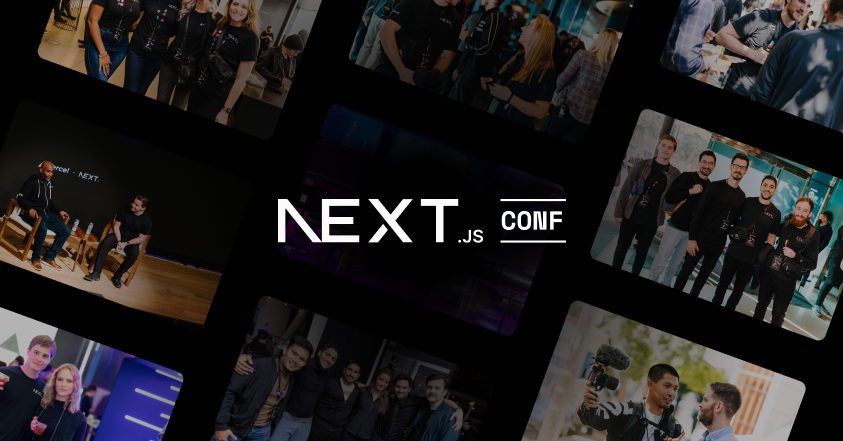
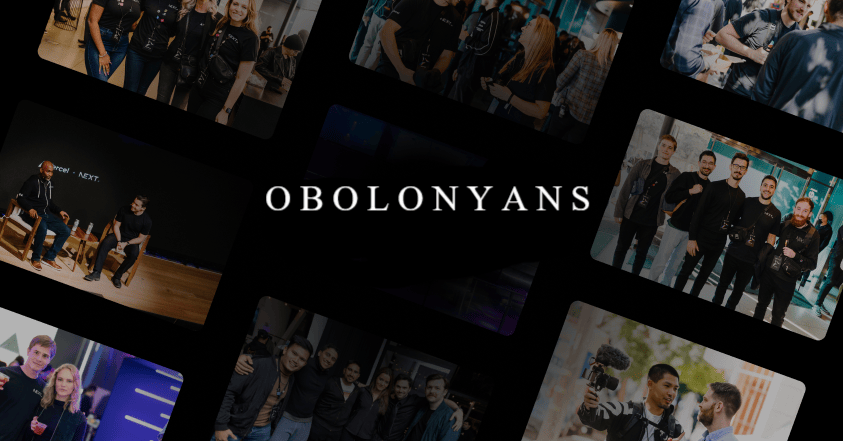
add meta

Changed region(s): [[0.3084, 0.4127, 0.7094, 0.5896], [0.0308, 0.8254, 0.0617, 0.8549]]

diff --git a/pages/index.tsx b/pages/index.tsx
@@ -58,7 +58,7 @@ const Home: NextPage = ({ images }: { images: ImageProps[] }) => {
               </span>
               <span className="absolute left-0 right-0 bottom-0 h-[400px] bg-gradient-to-b from-black/0 via-black to-black"></span>
             </div>
-            <Logo />
+            {/* <Logo /> */}
             <span className="font-bold tracking-[.3em] text-4xl overline">OBOLONYANS</span>
             <h1 className="mt-8 mb-4 text-base font-bold uppercase tracking-widest">
               Our Event Photos

diff --git a/pages/_document.tsx b/pages/_document.tsx
@@ -20,7 +20,7 @@ class MyDocument extends Document {
           <meta name="twitter:title" content="Next.js Conf 2022 Pictures" />
           <meta
             name="twitter:description"
-            content="See pictures from Next.js Conf and the After Party."
+            content="See pictures from Meeting Friends and the After Party."
           />
         </Head>
         <body className="bg-black antialiased">
